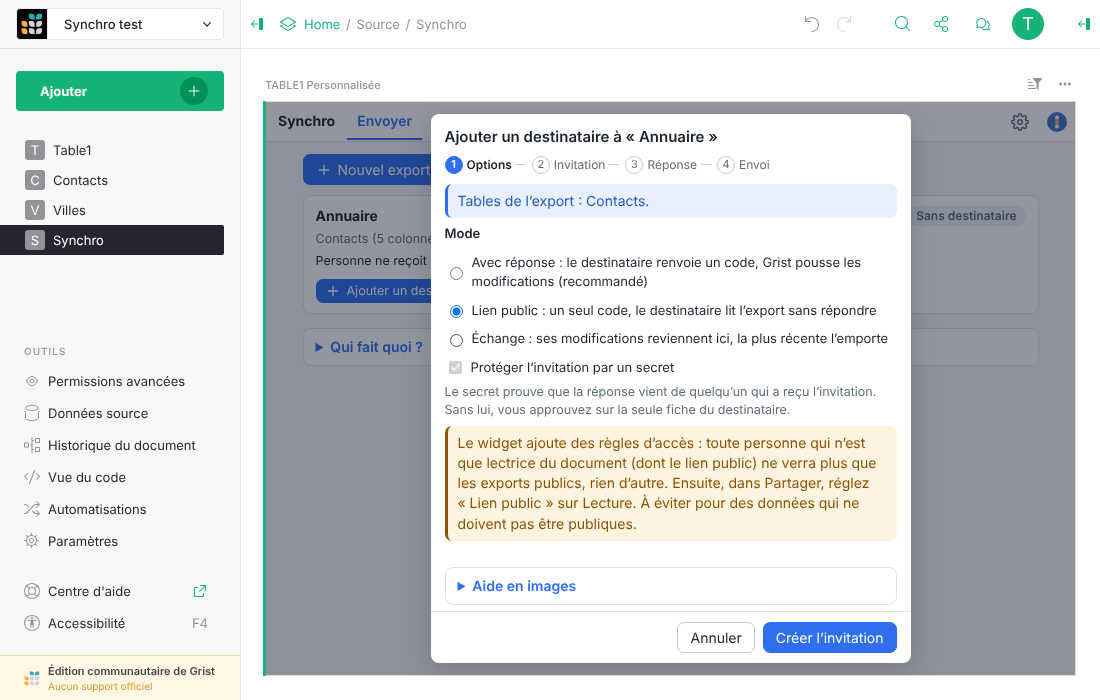
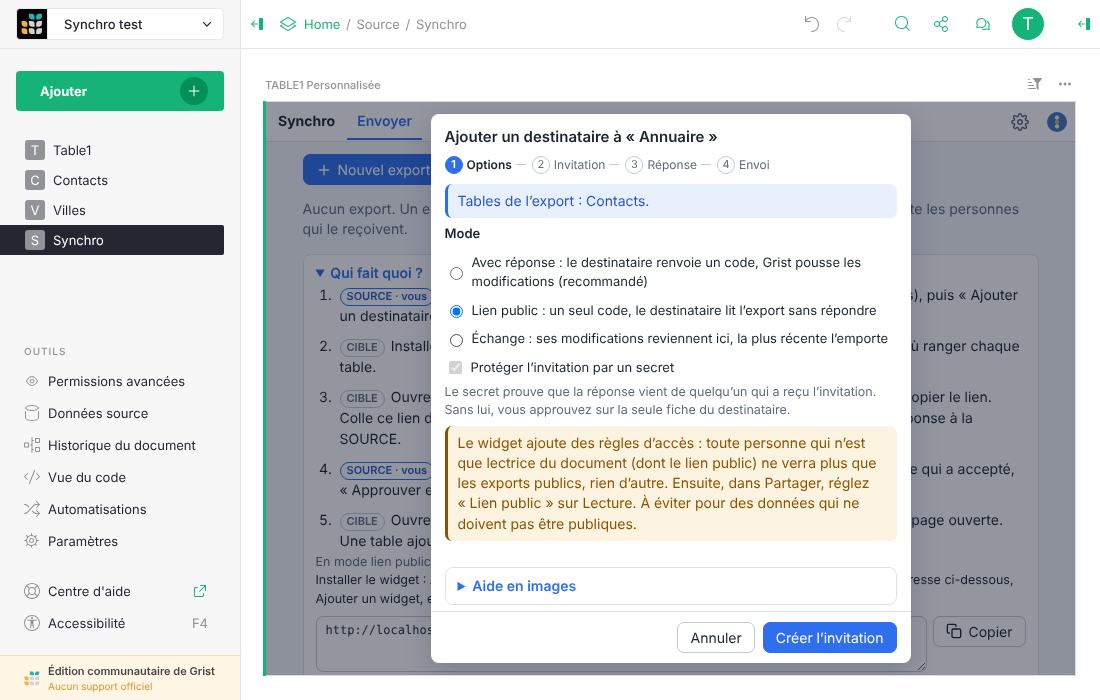
V0.5.1 : correctifs de l'Alpha
- Envoi : la fenêtre « Ajouter un destinataire » se ferme pendant l'envoi
  au lieu de rester grisée.
- CIBLE : les colonnes ajoutées à un export après coup arrivent visibles.
- Les pages des formulaires de réception sont créées à la racine de la
  liste des pages.
- Tutoriel et captures mis à jour.

diff --git a/js/pages.js b/js/pages.js
@@ -5,22 +5,6 @@ import { randomHex } from './logic/common.js';
 
 const published = section => JSON.parse(section.shareOptions || '{}').publish === true;
 
-// Page qui porte ce widget : la seule section « personnalisée » dont l'adresse est celle de cette
-// page ; sinon (aucune ou plusieurs), 0.
-function widgetViewRef(sections) {
-  const here = location.origin + location.pathname;
-  const mine = sections.filter((section) => {
-    if (section.parentKey !== 'custom') return false;
-    try {
-      const url = new URL(JSON.parse(JSON.parse(section.options || '{}').customView || '{}').url);
-      return url.origin + url.pathname === here;
-    } catch (e) {
-      return false;
-    }
-  });
-  return mine.length === 1 ? mine[0].parentId : 0;
-}
-
 // ---------------------------------------------------------------------------------------------
 // Formulaires de réception
 
@@ -29,8 +13,8 @@ function widgetViewRef(sections) {
 // la note) des tables de tous les formulaires de la page (vérifié) : une page par journal, et
 // chaque expéditeur n'atteint que le sien. Mêmes actions que le bouton « Publier » de Grist ; le
 // serveur crée alors la clé, que le widget ne peut pas lire : la personne copie le lien depuis la
-// carte du formulaire. Idempotent. La page, nommée comme le journal, est rangée sous celle du
-// widget, dépliée pour la montrer.
+// carte du formulaire. Idempotent. La page, nommée comme le journal, reste à la racine de la liste
+// des pages, là où Grist la crée (en fin de liste) : on la trouve sans déplier la page du widget.
 export async function ensureForm(tableId) {
   const table = (await readSchema()).table(tableId);
   let section = (await fetchRows('_grist_Views_section')).find(s => s.parentKey === 'form' && s.tableRef === table.id);
@@ -38,7 +22,6 @@ export async function ensureForm(tableId) {
     const created = (await apply([['CreateViewSection', table.id, 0, 'form', null, null]])).retValues[0];
     section = { id: created.sectionRef, parentId: created.viewRef, shareOptions: '' };
     await apply([['UpdateRecord', '_grist_Views', created.viewRef, { name: tableId }]]);
-    await nestUnderWidget(created.viewRef);
   }
   const page = (await fetchRows('_grist_Pages')).find(p => p.viewRef === section.parentId);
   if (!page.shareRef) {
@@ -48,32 +31,6 @@ export async function ensureForm(tableId) {
   if (!published(section)) {
     await apply([['UpdateRecord', '_grist_Views_section', section.id, { shareOptions: JSON.stringify({ form: true, publish: true }) }]]);
   }
-}
-
-// Range la page `viewRef` sous la page du widget, après ses autres sous-pages, et déplie celle-ci.
-async function nestUnderWidget(viewRef) {
-  const [pages, sections] = await Promise.all([fetchRows('_grist_Pages'), fetchRows('_grist_Views_section')]);
-  const page = pages.find(p => p.viewRef === viewRef);
-  const others = pages.filter(p => p !== page).sort((a, b) => a.pagePos - b.pagePos);
-  const at = others.findIndex(p => p.viewRef === widgetViewRef(sections));
-  if (!page || at < 0) return;
-  const parent = others[at];
-  let end = at;
-  while (end + 1 < others.length && others[end + 1].indentation > parent.indentation) end++;
-  const next = others[end + 1];
-  const pagePos = next ? (others[end].pagePos + next.pagePos) / 2 : others[end].pagePos + 1;
-  await apply([['UpdateRecord', '_grist_Pages', page.id, { indentation: parent.indentation + 1, pagePos }]]);
-  await setWidgetPageCollapsed(false);
-}
-
-// Replie (ou déplie) la page du widget dans la liste des pages : ses sous-pages, les formulaires,
-// ne se voient plus. Fait une fois, quand un lien vient d'être donné.
-export async function setWidgetPageCollapsed(collapsed) {
-  const [pages, sections] = await Promise.all([fetchRows('_grist_Pages'), fetchRows('_grist_Views_section')]);
-  const page = pages.find(p => p.viewRef === widgetViewRef(sections));
-  if (!page) return;
-  const options = JSON.parse(page.options || '{}');
-  if (Boolean(options.collapsed) !== collapsed) await apply([['UpdateRecord', '_grist_Pages', page.id, { options: JSON.stringify({ ...options, collapsed }) }]]);
 }
 
 // Formulaire publié de chaque table : { section, viewRef, name (de la page), shared (autres

diff --git a/js/source/recipient-wizard.js b/js/source/recipient-wizard.js
@@ -6,7 +6,7 @@ import { AUTHOR_COL, EXPORT_COL, JOURNAL_PREFIX, SYNC_TABLE, freeTableId, random
 import { buildInvitation, buildWebhookUrl, loopingTables, maskKey, parseFormLink, parseReply } from '../logic/codes.js';
 import { exportCondition, hookName } from '../logic/exports.js';
 import { createWebhook, docIdentity, fetchRows, readSchema } from '../grist.js';
-import { ensureForm, setWidgetPageCollapsed } from '../pages.js';
+import { ensureForm } from '../pages.js';
 import { formWhere, linkFigures, testUrl } from '../form-link.js';
 import { addDeleteColumns } from '../exchange.js';
 import { saveExport, syncRows, updateSourceNote } from './synchro.js';
@@ -26,7 +26,7 @@ const closeButton = () => [{ label: t('common.close'), kind: 'btn-primary' }];
 // `onClose` : appelé à la fermeture (l'onglet se redessine).
 export function recipientWizard(exp, pending, onClose) {
   const steps = ['send.step.options', 'send.step.invitation', 'send.step.reply', 'send.step.load'].map(k => t(k));
-  const ctx = { exp, steps, wizard: openWizard({ title: t('send.person.title', { name: exp.name }), steps, onClose }) };
+  const ctx = { exp, steps, onClose, wizard: openWizard({ title: t('send.person.title', { name: exp.name }), steps, onClose }) };
   if (!pending) return showOptions(ctx);
   return pending.journal && !pending.ready ? showBack(ctx, pending) : showReply(ctx, pending);
 }
@@ -109,7 +109,6 @@ async function showBack(ctx, inv) {
     if (!parseFormLink(input.value)) throw new Error('formLink');
     const retour = buildWebhookUrl(input.value, inv.journal);
     await testUrl(retour, inv.journal);
-    await setWidgetPageCollapsed(true);
     const secret = inv.withSecret ? randomHex(16) : '';
     const entry = { ...inv, hash: secret ? await sha256(secret) : '', ready: true };
     await updateSourceNote((note) => { note.invitations = note.invitations.map(i => (i.id === inv.id ? entry : i)); });
@@ -178,8 +177,9 @@ async function approve(ctx, inv, reply) {
   await showLoad(ctx);
 }
 
-// 4. Envoi : le branchement n'envoie que les modifications à venir ; proposer l'existant.
-async function showLoad({ exp, wizard }) {
+// 4. Envoi : le branchement n'envoie que les modifications à venir ; proposer l'existant. La
+// fenêtre se ferme pendant l'envoi, qui continue (voir resendTables) : l'onglet se redessine à la fin.
+async function showLoad({ exp, wizard, onClose }) {
   let total = 0;
   for (const { table } of exp.tables) total += (await fetchRows(table)).length;
   const report = el('div', { class: 'report' });
@@ -188,8 +188,11 @@ async function showLoad({ exp, wizard }) {
     return;
   }
   const send = async () => {
+    wizard.show(STEP.load, [message('ok', t('send.connected')), report, el('p', { class: 'muted small' }, t('send.load.background'))], closeButton());
+    report.replaceChildren(message('info', t('send.load.progress', { done: 0, total })));
     const n = await resendTables(exp.id, exp.tables.map(tb => tb.table), report);
-    wizard.show(STEP.load + 1, n === null ? message('info', t('send.load.queued')) : message('ok', t('send.done')), closeButton());
+    if (!report.isConnected) return onClose && onClose();
+    return wizard.show(STEP.load + 1, n === null ? message('info', t('send.load.queued')) : message('ok', t('send.done')), closeButton());
   };
   wizard.show(STEP.load, [message('ok', t('send.connected')), el('p', {}, t('send.load.body', { n: total })), report],
     [later, { label: t('send.load.ok'), kind: 'btn-primary', onClick: () => run(null, report, send) }]);

diff --git a/js/tutorial.js b/js/tutorial.js
@@ -72,20 +72,20 @@ const SECTIONS = [
     text: [[
       'Pour chaque table de l’export : Nouvelle table (nom modifiable) ou une table du document.',
       'Pour une table existante, dire où va chaque colonne et par quelle colonne rattacher les lignes déjà là : une ligne dont cette colonne a la même valeur est mise à jour au lieu d’être doublée.',
-      'Le widget crée un journal pour l’export et publie son formulaire de réception sur sa propre page, rangée sous celle du widget.',
+      'Le widget crée un journal pour l’export et publie son formulaire de réception sur sa propre page, en bas de la liste des pages.',
     ], [
       'For each table of the export: New table (name editable) or a table of the document.',
       'For an existing table, say where each column goes and which column attaches rows already there: a row with the same value is updated instead of duplicated.',
-      'The widget creates a journal for the export and publishes its receiving form on its own page, under the widget’s page.',
+      'The widget creates a journal for the export and publishes its receiving form on its own page, at the bottom of the page list.',
     ]],
     images: ['08-cible-destinations', '08b-cible-colonnes'] },
   { id: 't-link', role: 'target',
     title: ['Copier le lien du formulaire', 'Copy the form link'],
     text: [[
-      'Ouvrir la page du formulaire, sous celle du widget, puis dans sa carte : Partager, Copier le lien. Coller ce lien dans le widget, Tester le lien : le widget vérifie qu’il écrit bien dans le journal de cette réception. Il sert pour toutes les tables de l’export, et pour celles qui s’y ajouteront. Ensuite, la page du widget se replie.',
+      'Ouvrir la page du formulaire, en bas de la liste des pages, puis dans sa carte : Partager, Copier le lien. Coller ce lien dans le widget, Tester le lien : le widget vérifie qu’il écrit bien dans le journal de cette réception. Il sert pour toutes les tables de l’export, et pour celles qui s’y ajouteront.',
       'Ce lien est un droit d’écriture dans votre journal : ne le diffusez pas ailleurs. Chaque réception a le sien.',
     ], [
-      'Open the form’s page, under the widget’s page, then in its card: Share, Copy link. Paste it in the widget, Test the link: the widget checks that it writes into this reception’s journal. It works for every table of the export, and those added later. Then the widget’s page folds up.',
+      'Open the form’s page, at the bottom of the page list, then in its card: Share, Copy link. Paste it in the widget, Test the link: the widget checks that it writes into this reception’s journal. It works for every table of the export, and those added later.',
       'This link is a write right into your journal: do not share it elsewhere. Each reception has its own.',
     ]],
     images: ['img/aide-partager.png', 'img/aide-copier.png', '09-cible-lien'] },

diff --git a/js/target/journals.js b/js/target/journals.js
@@ -57,13 +57,15 @@ export async function upgradeJournal(schema, journal) {
 export const destColumns = columns => columns.filter(c => ![KEY_COL, ORDER_COL, DELETE_COL].includes(c.id));
 
 // CIBLE : colonnes envoyées qui manquent à la destination, sous le nom choisi dans `map`
-// (colonne envoyée -> colonne de la destination). La clé `id_sync` en fait partie.
+// (colonne envoyée -> colonne de la destination). La clé `id_sync` en fait partie. Les colonnes de
+// données s'affichent dans les vues de la table (`AddColumn` ne les mettrait que dans « Données
+// source » et la fiche : une colonne ajoutée plus tard à l'export arrivait cachée) ; la clé non.
 export function addDestColumnsActions(schema, dest, columns, map = {}) {
   const have = new Set((schema.columns(dest) || []).map(c => c.colId));
   return [...destColumns(columns), { id: KEY_COL, type: 'Text', label: KEY_COL }]
-    .map(({ id, type, label }) => ({ id: map[id] || id, type, label: map[id] ? map[id] : label }))
+    .map(({ id, type, label }) => ({ id: map[id] || id, type, label: map[id] ? map[id] : label, key: id === KEY_COL }))
     .filter(c => !have.has(c.id))
-    .map(({ id, ...info }) => ['AddColumn', dest, id, { ...info, isFormula: false }]);
+    .map(({ id, key, ...info }) => [key ? 'AddColumn' : 'AddVisibleColumn', dest, id, { ...info, isFormula: false }]);
 }
 
 export async function createJournal(journal, note) {

diff --git a/js/target/wizard.js b/js/target/wizard.js
@@ -3,7 +3,7 @@
 import { APPLIED_COL, AUTHOR_COL, JOURNAL_PREFIX, LIST_COL, freeTableId, toTableId } from '../logic/common.js';
 import { buildReply, buildWebhookUrl, parseFormLink, parseInvitation } from '../logic/codes.js';
 import { apply, docIdentity, fetchRows, isOwner, readSchema } from '../grist.js';
-import { ensureForm, setWidgetPageCollapsed } from '../pages.js';
+import { ensureForm } from '../pages.js';
 import { formWhere, linkFigures, testUrl } from '../form-link.js';
 import { wireExchange } from '../exchange.js';
 import { createJournal, prepareDest, receivedJournals, updateJournalNote } from './journals.js';
@@ -153,7 +153,6 @@ async function showReply(ctx, { journal, note }, link) {
   if (!parseFormLink(link)) throw new Error('formLink');
   const url = buildWebhookUrl(link, journal);
   await testUrl(url, journal);
-  await setWidgetPageCollapsed(true);
   const identity = await docIdentity();
   const code = buildReply({
     id: note.id, secret: note.secret, url, retour: note.mode === 'echange' ? note.tables.map(tb => ({ table: tb.dest, dest: tb.table })) : null,

diff --git a/js/source/export-wizard.js b/js/source/export-wizard.js
@@ -126,9 +126,12 @@ async function save(ctx, name, report) {
     return;
   }
   if (name !== exp.name) for (const h of exp.recipients) await renameWebhook(h.id, hookName(name, id));
+  // Fenêtre fermée pendant le renvoi, qui continue : l'onglet se redessine à la fin.
+  if (changed.length) wizard.show(3, [report, el('p', { class: 'muted small' }, t('send.load.background'))], [{ label: t('common.close'), kind: 'btn-primary' }]);
   const n = changed.length ? await resendTables(id, changed, report) : 0;
+  if (changed.length && !report.isConnected) return ctx.onClose && ctx.onClose();
   const saved = n === null ? message('info', t('send.load.queued')) : message('ok', n ? t('send.edit.saved', { n }) : t('send.edit.savedNone'));
-  wizard.show(3, saved, [{ label: t('common.close'), kind: 'btn-primary' }]);
+  return wizard.show(3, saved, [{ label: t('common.close'), kind: 'btn-primary' }]);
 }
 
 // Filtre de lignes d'une table, facultatif : une colonne et la valeur qu'ont les lignes envoyées.

diff --git a/js/source/resend.js b/js/source/resend.js
@@ -30,13 +30,14 @@ function tooLarge(h) {
   return ['retrying', 'postponed'].includes(u.status) && (u.lastEventBatch || {}).httpStatus === 413;
 }
 
+// Un envoi met en général moins d'une seconde : les premières lectures sont rapprochées.
 async function waitForQueue(hookIds) {
   for (let i = 0; i < 60; i++) {
     const hooks = (await listWebhooks()).filter(h => hookIds.includes(h.id));
     if (hooks.some(tooLarge)) throw new Error('tooLarge');
     if (!hooks.some(h => h.usage && h.usage.numWaiting)) return;
     await beat();
-    await sleep(1500);
+    await sleep(i < 3 ? 500 : 1500);
   }
   throw new Error('queueStuck');
 }

diff --git a/js/config.js b/js/config.js
@@ -3,4 +3,4 @@
 // Content-Security-Policy de index.html), aux mêmes endroits.
 export const GRIST_ORIGINS = ['https://grist.numerique.gouv.fr', 'https://docs.getgrist.com'];
 
-export const VERSION = '0.5.0';
+export const VERSION = '0.5.1';

diff --git a/docs/04-tutoriel.md b/docs/04-tutoriel.md
@@ -120,14 +120,14 @@ quelle colonne rattacher les lignes déjà là (voir [Une table ajoutée à l'ex
 ![Destinations](images/08-cible-destinations.png)
 
 Le widget crée un journal pour l'export, `Journal_<export>` (dans « Données source »), et publie
-son formulaire de réception sur sa propre page, `Journal_<export>`, rangée sous celle du widget.
+son formulaire de réception sur sa propre page, `Journal_<export>`, en bas de la liste des pages.
 
 ### 8. Copier le lien du formulaire
 
-L'assistant montre où cliquer : ouvrir la page du formulaire, sous celle du widget, puis dans sa
+L'assistant montre où cliquer : ouvrir la page du formulaire, en bas de la liste des pages, puis dans sa
 carte **Partager** et **Copier le lien** ; coller ce lien dans le widget, **Tester le lien**. Le
 widget vérifie que le lien écrit bien dans le journal de cette réception (le lien d'un autre
-formulaire ou d'un autre document est refusé), puis replie sa page. Un seul lien sert pour toutes
+formulaire ou d'un autre document est refusé). Un seul lien sert pour toutes
 les tables de l'export, et pour celles qui s'y ajouteront.
 
 ![Lien](images/09-cible-lien.png)
@@ -264,7 +264,7 @@ l'autre, sans revenir ; quand la même ligne change des deux côtés, **la plus 
 Il faut un **propriétaire** de chaque côté (chacun envoie par son propre webhook).
 
 1. SOURCE : créer l'export, puis **Ajouter un destinataire** (le premier de l'export), mode
-   **Échange**. Le widget publie un formulaire de retour sur sa propre page, sous celle du widget :
+   **Échange**. Le widget publie un formulaire de retour sur sa propre page, en bas de la liste des pages :
    copier son lien et le coller, il part dans l'invitation (qui devient un droit d'écriture).
 
    ![Mode Échange](images/20-echange-mode.png)

diff --git a/SECURITY.md b/SECURITY.md
@@ -124,7 +124,7 @@ la seule personne concernée.
 
 - **Une clé par réception** : Grist donne une clé par page partagée, et cette clé lit aussi les
   colonnes des tables de tous les formulaires de la page, descriptions comprises (vérifié). Chaque
-  journal a donc son formulaire sur sa propre page, rangée sous celle du widget. Les formulaires
+  journal a donc son formulaire sur sa propre page, à la racine de la liste des pages. Les formulaires
   publiés par une version d'avant la 0.5 sur une même page sont signalés (« Lien commun à
   d'autres formulaires ») avec un bouton qui les sépare.
 - **Ce qu'elle permet** (vérifié) : ajouter des lignes au journal de sa réception ; lire les

diff --git a/README.md b/README.md
@@ -11,7 +11,7 @@ Sans serveur à héberger, sans dépendance, et seules les colonnes que vous cho
 
 <img src="docs/images/14-cible-historique.png" width="820" alt="Le widget dans le document qui reçoit : l'export « Annuaire » est à jour et liste les lignes ajoutées, modifiées et supprimées depuis la dernière visite">
 
-<sub>Version 0.5.0 · Grist 1.7.11 ou plus récent · licence GPL-3.0 · Grist Factory</sub>
+<sub>Version 0.5.1 · Grist 1.7.11 ou plus récent · licence GPL-3.0 · Grist Factory</sub>
 
 </div>
 

diff --git a/README.en.md b/README.en.md
@@ -11,7 +11,7 @@ No server to host, no dependencies, and only the columns you pick leave the docu
 
 <img src="docs/images/14-cible-historique.png" width="820" alt="The widget in the receiving document: the “Annuaire” export is up to date and lists the rows added, changed and deleted since the last visit">
 
-<sub>Version 0.5.0 · Grist 1.7.11 or later · GPL-3.0 license · Grist Factory</sub>
+<sub>Version 0.5.1 · Grist 1.7.11 or later · GPL-3.0 license · Grist Factory</sub>
 
 </div>
 
